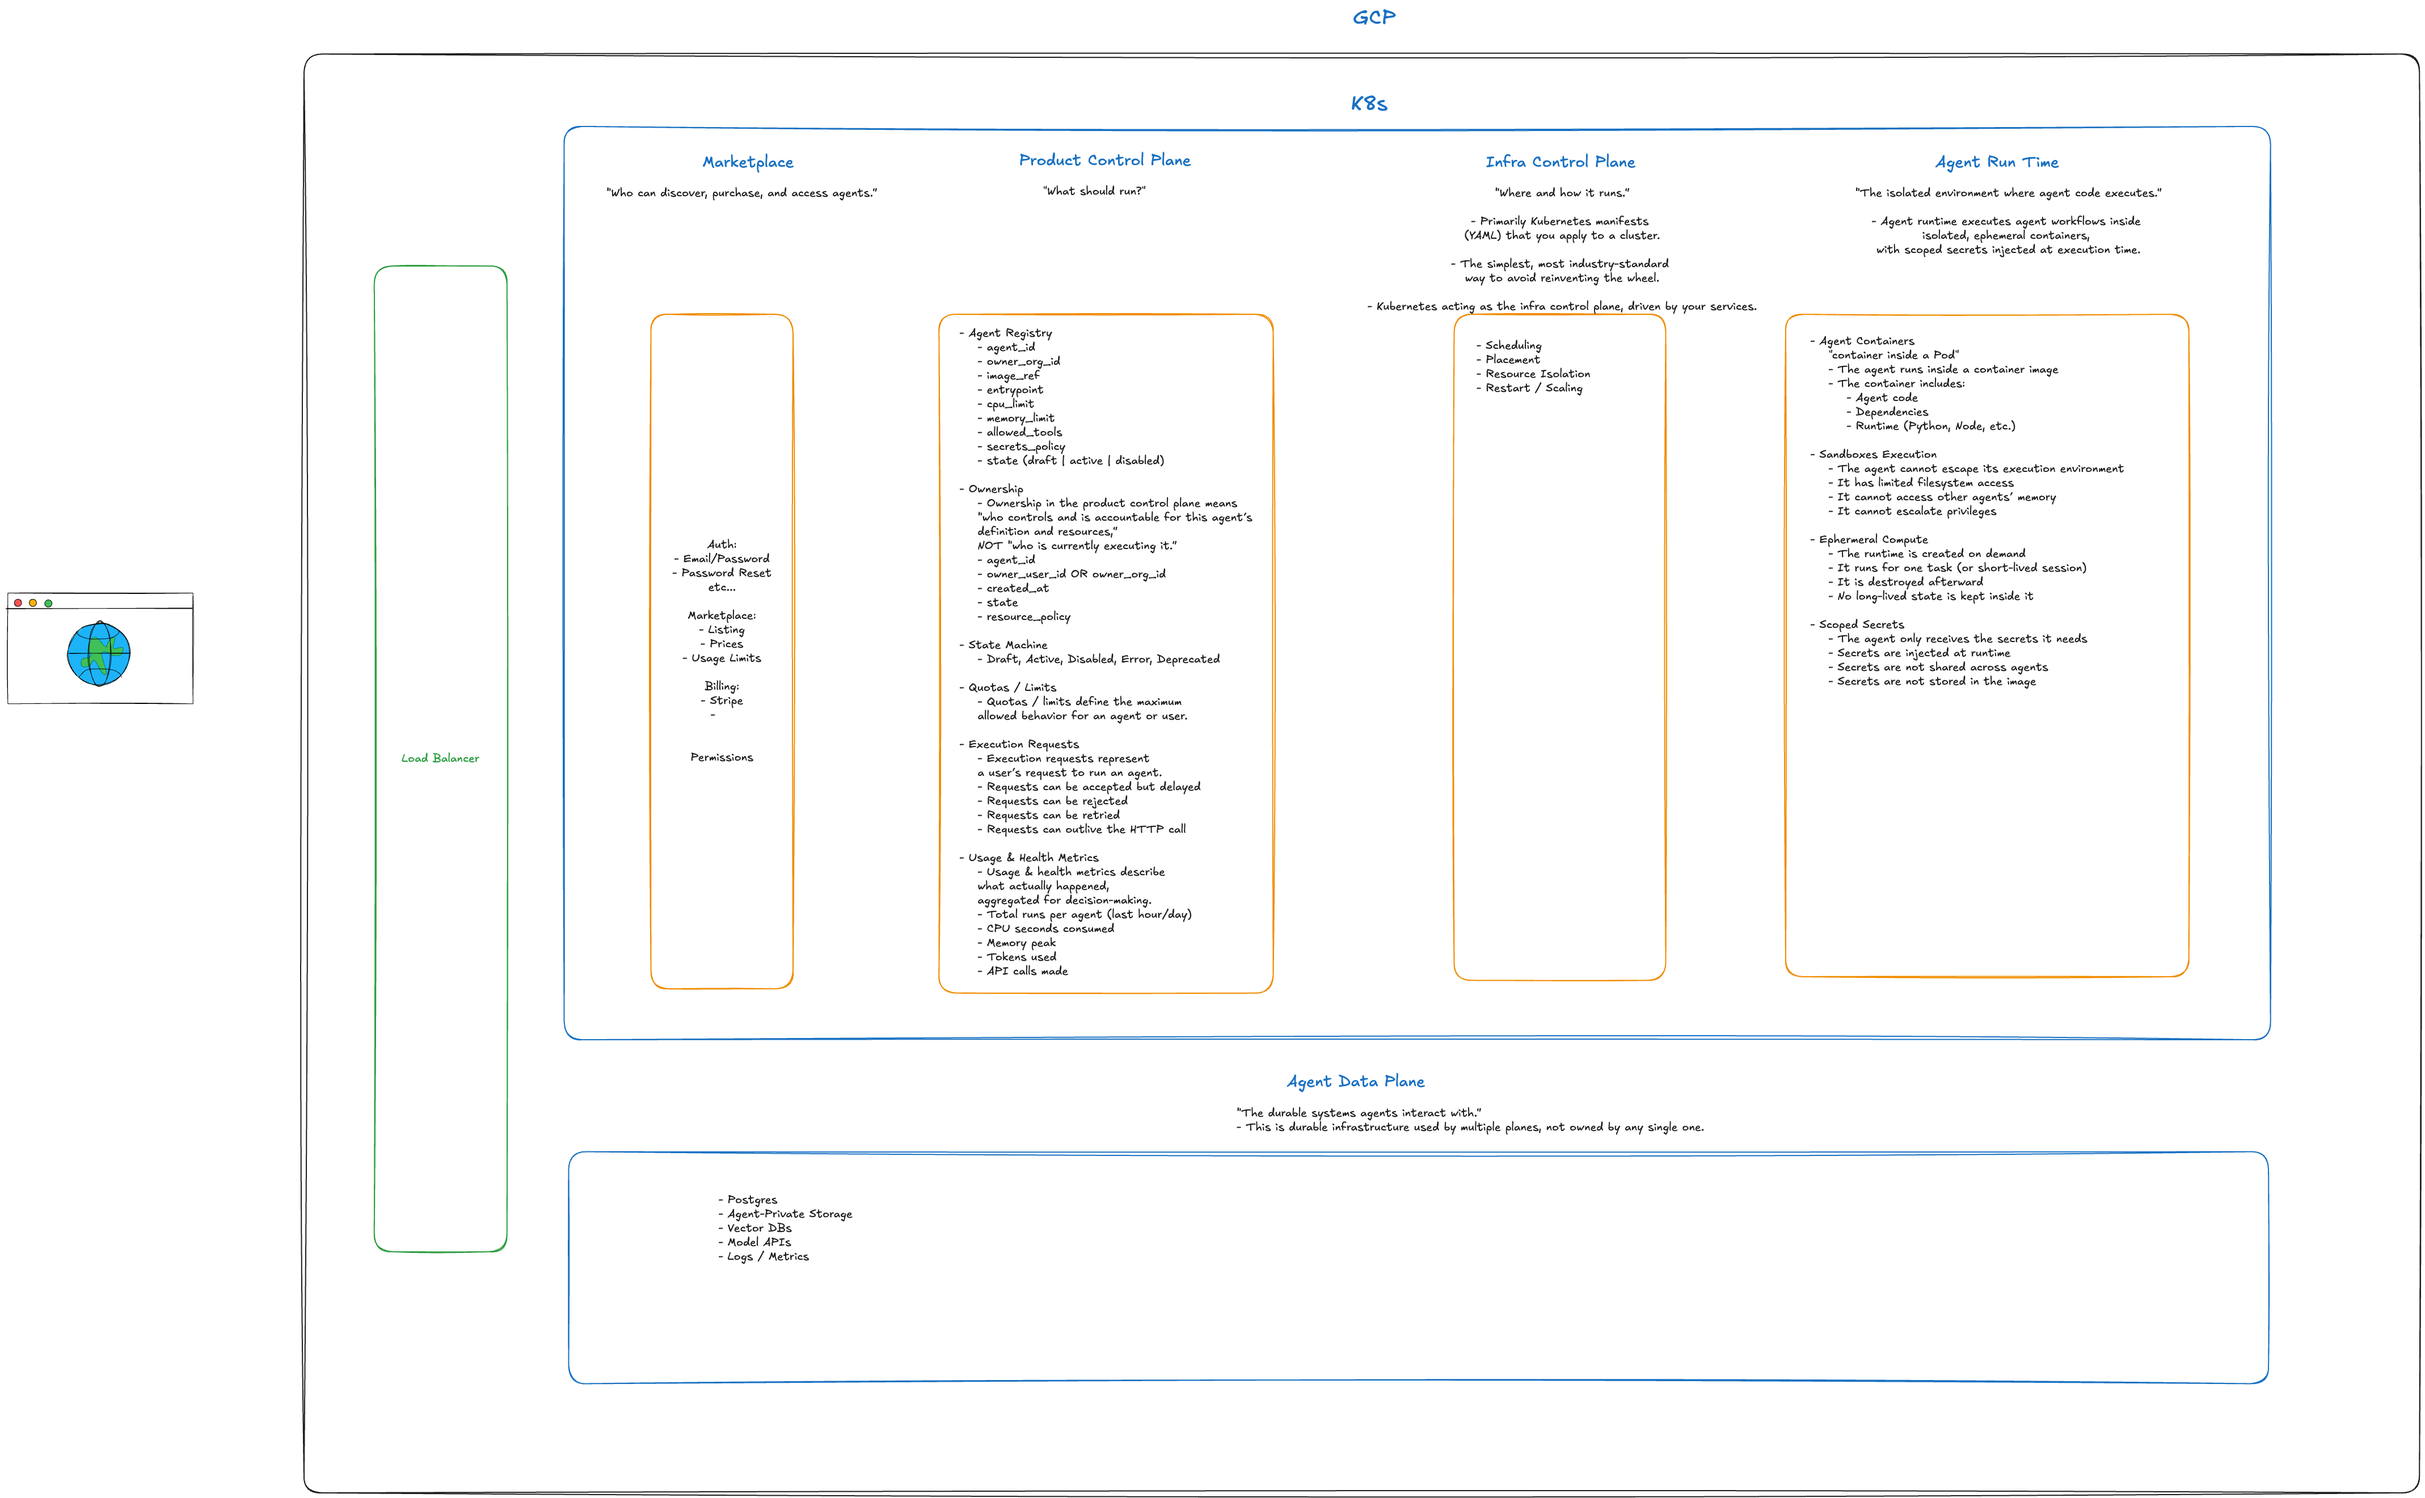
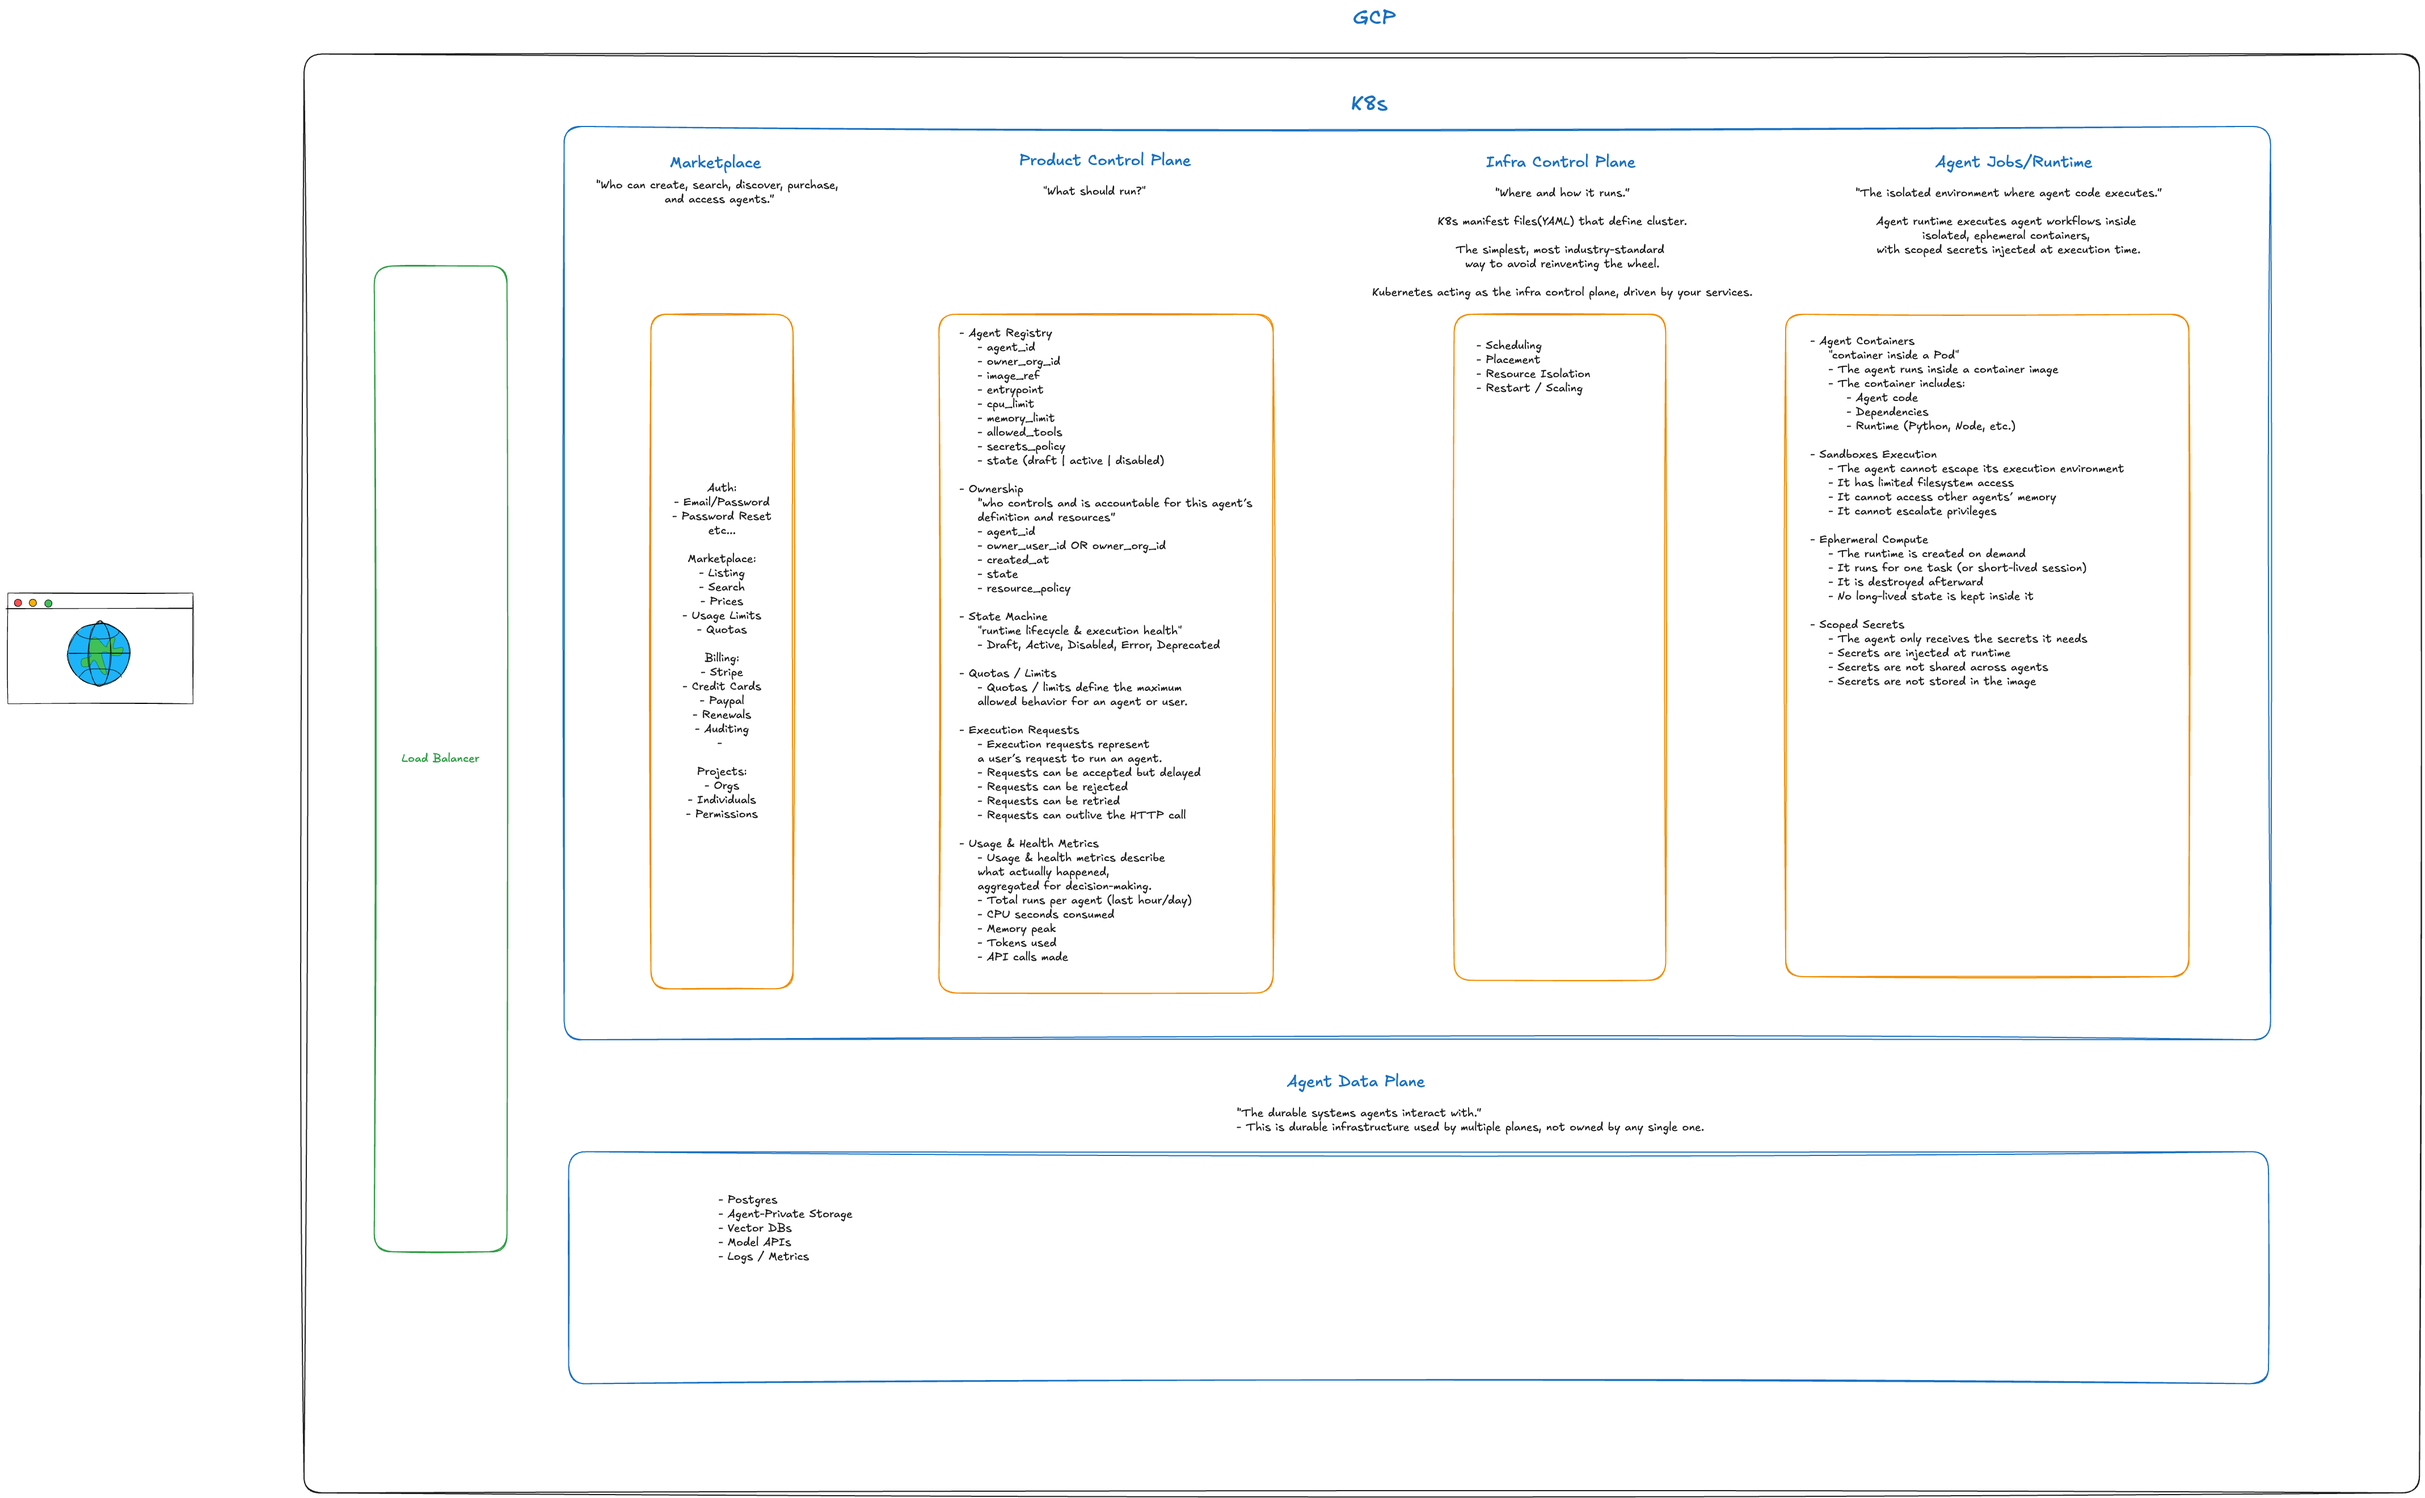
Update docs

diff --git a/infra-control-plane/src/index.js b/infra-control-plane/src/index.js
@@ -3,15 +3,14 @@ import scheduleRunRoutes from './routes/scheduleRun.js'
 import executionRoutes from './routes/executions.js'
 
 const app = express()
+app.use(express.json())
+
+app.use(executionRoutes)
+app.use(scheduleRunRoutes)
 
 app.get('/health', (req, res) => {
   res.status(200).send('ok')
 })
-
-app.use(express.json())
-
-app.use(scheduleRunRoutes)
-app.use(executionRoutes)
 
 app.listen(3000, '0.0.0.0', () => {
   console.log('Infra control plane listening on :3000')

diff --git a/README.md b/README.md
@@ -1,6 +1,6 @@
 # AI Agent Marketplace
 
-https://github.com/PrimeTimeTran/k8s-agent-marketplace-platform
+[![Preview](./docs/architecture-diagram.png)](https://github.com/PrimeTimeTran/k8s-agent-marketplace-platform)
 
 ## Dependencies
 
@@ -9,6 +9,55 @@ https://github.com/PrimeTimeTran/k8s-agent-marketplace-platform
 - Node
 - FastAPI
 
-## Preview
+## Architecture
 
-![Preview](./docs/architecture-diagram.png)
+- Marketplace
+- Product Control Plane
+- Infra Control Plane
+- Agent Jobs/Runtime
+
+## **Overview**
+
+Instead of building a monolithic system that becomes bloated, brittle, and difficult to evolve, this architecture is organized around four clearly defined layers: **Marketplace**, **Product Control Plane**, **Infra Control Plane**, and **Agent Runtime**. Each layer owns a single, well-scoped responsibility, allowing business concerns, product intent, infrastructure orchestration, and execution to evolve independently. This separation enables the platform to support many agents, users, and execution models without coupling commercial logic to operational reality or runtime behavior to policy decisions.
+
+Together, these cornerstones form a system that is resilient by design. Marketplace workflows such as discovery, pricing, and access control can change without impacting execution safety. Product-level decisions about what should run are enforced consistently across all agents, regardless of where or how they execute. Infrastructure concerns are delegated to Kubernetes, ensuring reliability, isolation, and scalability without custom scheduling logic. Finally, agent execution is isolated into narrow runtimes that can safely run untrusted or third-party code at scale. This layered approach creates a foundation that supports rapid iteration today while remaining robust enough to accommodate governance, monetization, and operational complexity as the marketplace grows.
+
+### Marketplace
+
+> “Who can create, discover, purchase, and access agents.”
+
+The Marketplace is the commercial and access-control layer of the platform. It defines who is allowed to see an agent, under what conditions it may be used, and how usage is governed from a business perspective. This includes agent discovery, listing visibility, pricing models, usage limits, and entitlement checks. The Marketplace does not decide how an agent runs or where it runs — it decides who is allowed to request execution and under what contractual terms.
+
+From a user’s perspective, the Marketplace is where agents are published, configured for public or private access, monetized, and shared across organizations or teams. Publishing an agent in the Marketplace makes it discoverable and purchasable, but does not guarantee that it will execute — execution is still subject to downstream control planes and platform governance. This separation allows agents to be listed for preview, staged rollout, or pre-purchase without immediately consuming infrastructure resources.
+
+Critically, the Marketplace operates independently of runtime health. An agent may be visible and purchasable while temporarily unavailable due to capacity, failures, or policy enforcement. This allows the platform to decouple business workflows (billing, discovery, permissions) from operational concerns, while still enforcing strict access control and usage limits before any execution is attempted.
+
+### Product Control Plane
+
+> “What should run.”
+
+The Product Control Plane is the decision-making layer that translates marketplace intent into concrete execution instructions. It determines what should be executed in response to a valid request, which agent definition applies, under which policies, and with what constraints. This layer is responsible for interpreting agent configuration, ownership, registry state, quotas, and permissions into a precise execution plan.
+
+Where the Marketplace answers “who is allowed to request this agent,” the Product Control Plane answers “is this request valid right now, and what exactly does it mean to run this agent?” It resolves agent versions, validates that the agent is permitted to run, enforces organizational and user-level limits, and creates a formal execution record that can be tracked, billed, retried, or audited. The Product Control Plane does not concern itself with Kubernetes manifests, nodes, or pods — it produces intent, not infrastructure.
+
+This layer is also where platform-level policy is enforced: concurrency limits, execution modes (sync vs async), resource envelopes, tool access, secrets exposure, and lifecycle transitions. By centralizing these decisions, the platform ensures that execution behavior is consistent regardless of where or how the agent ultimately runs. The Product Control Plane is therefore the bridge between product semantics and infrastructure reality, enabling the system to scale safely across many users, agents, and execution environments.
+
+### Infra Control Plane
+
+> “Where and how it runs.”
+
+The Infra Control Plane is the execution orchestration layer responsible for turning high-level execution intent into concrete infrastructure actions. It determines where an agent runs, how it is scheduled, and under what operational constraints. This layer translates decisions from the Product Control Plane into Kubernetes-native primitives such as Jobs, Pods, Services, and resource limits, relying on Kubernetes to handle placement, retries, scaling, and isolation.
+
+This control plane does not make product or business decisions. It assumes that all permissions, policies, and validations have already been resolved upstream. Its responsibility is to execute reliably, observe runtime signals, and report outcomes back to the system. Health checks, retries, timeouts, and failure detection all live here, enabling the platform to react to transient infrastructure issues without leaking those concerns into higher-level layers.
+
+By delegating scheduling and lifecycle management to Kubernetes, the Infra Control Plane avoids custom infrastructure logic while remaining flexible enough to support different execution models. It acts as the system’s operational backbone, ensuring that agent executions are isolated, resource-bounded, observable, and resilient to failure.
+
+### Agent Jobs/Runtime
+
+> “What actually executes the agent.”
+
+The Agent Runtime is the isolated execution environment in which an individual agent invocation runs. It is responsible for loading the agent code, resolving its dependencies, executing the agent’s logic, and producing outputs in response to a single request. Each execution is treated as a discrete unit of work with its own lifecycle, logs, resource limits, and failure modes.
+
+The runtime is intentionally narrow in scope. It does not handle authentication, billing, marketplace logic, or scheduling decisions. Instead, it focuses on safe and deterministic execution: enforcing tool access, applying secrets policies, honoring resource constraints, and exposing health and execution status back to the Infra Control Plane. This makes the runtime interchangeable and extensible, allowing different agent implementations or execution strategies without altering the rest of the platform.
+
+By isolating agent execution from control-plane concerns, the platform can safely run untrusted or third-party agents at scale. Multiple users may invoke the same agent concurrently, with each invocation running in its own runtime context. The Agent Runtime is therefore the point of truth for execution behavior, while remaining fully governed by upstream control planes.
